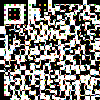
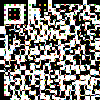
Updated canada.pymy1.png .

diff --git a/canada.py b/canada.py
@@ -28,9 +28,9 @@ outp=np.asarray(outp)
 img = Image.fromarray(outp, 'RGB')
 img.save('my.png')
 moverPieza(outp,18,1,0,0)
-moverPieza(outp,0,16,0,15)
+moverPieza(outp,0,16,0,12)
 moverPieza(outp,1,4,0,3)
-moverPieza(outp,1,9,0,12)
+moverPieza(outp,1,9,0,15)
 moverPieza(outp,2,8,0,5)
 moverPieza(outp,3,0,0,14)
 moverPieza(outp,4,7,0,11)
